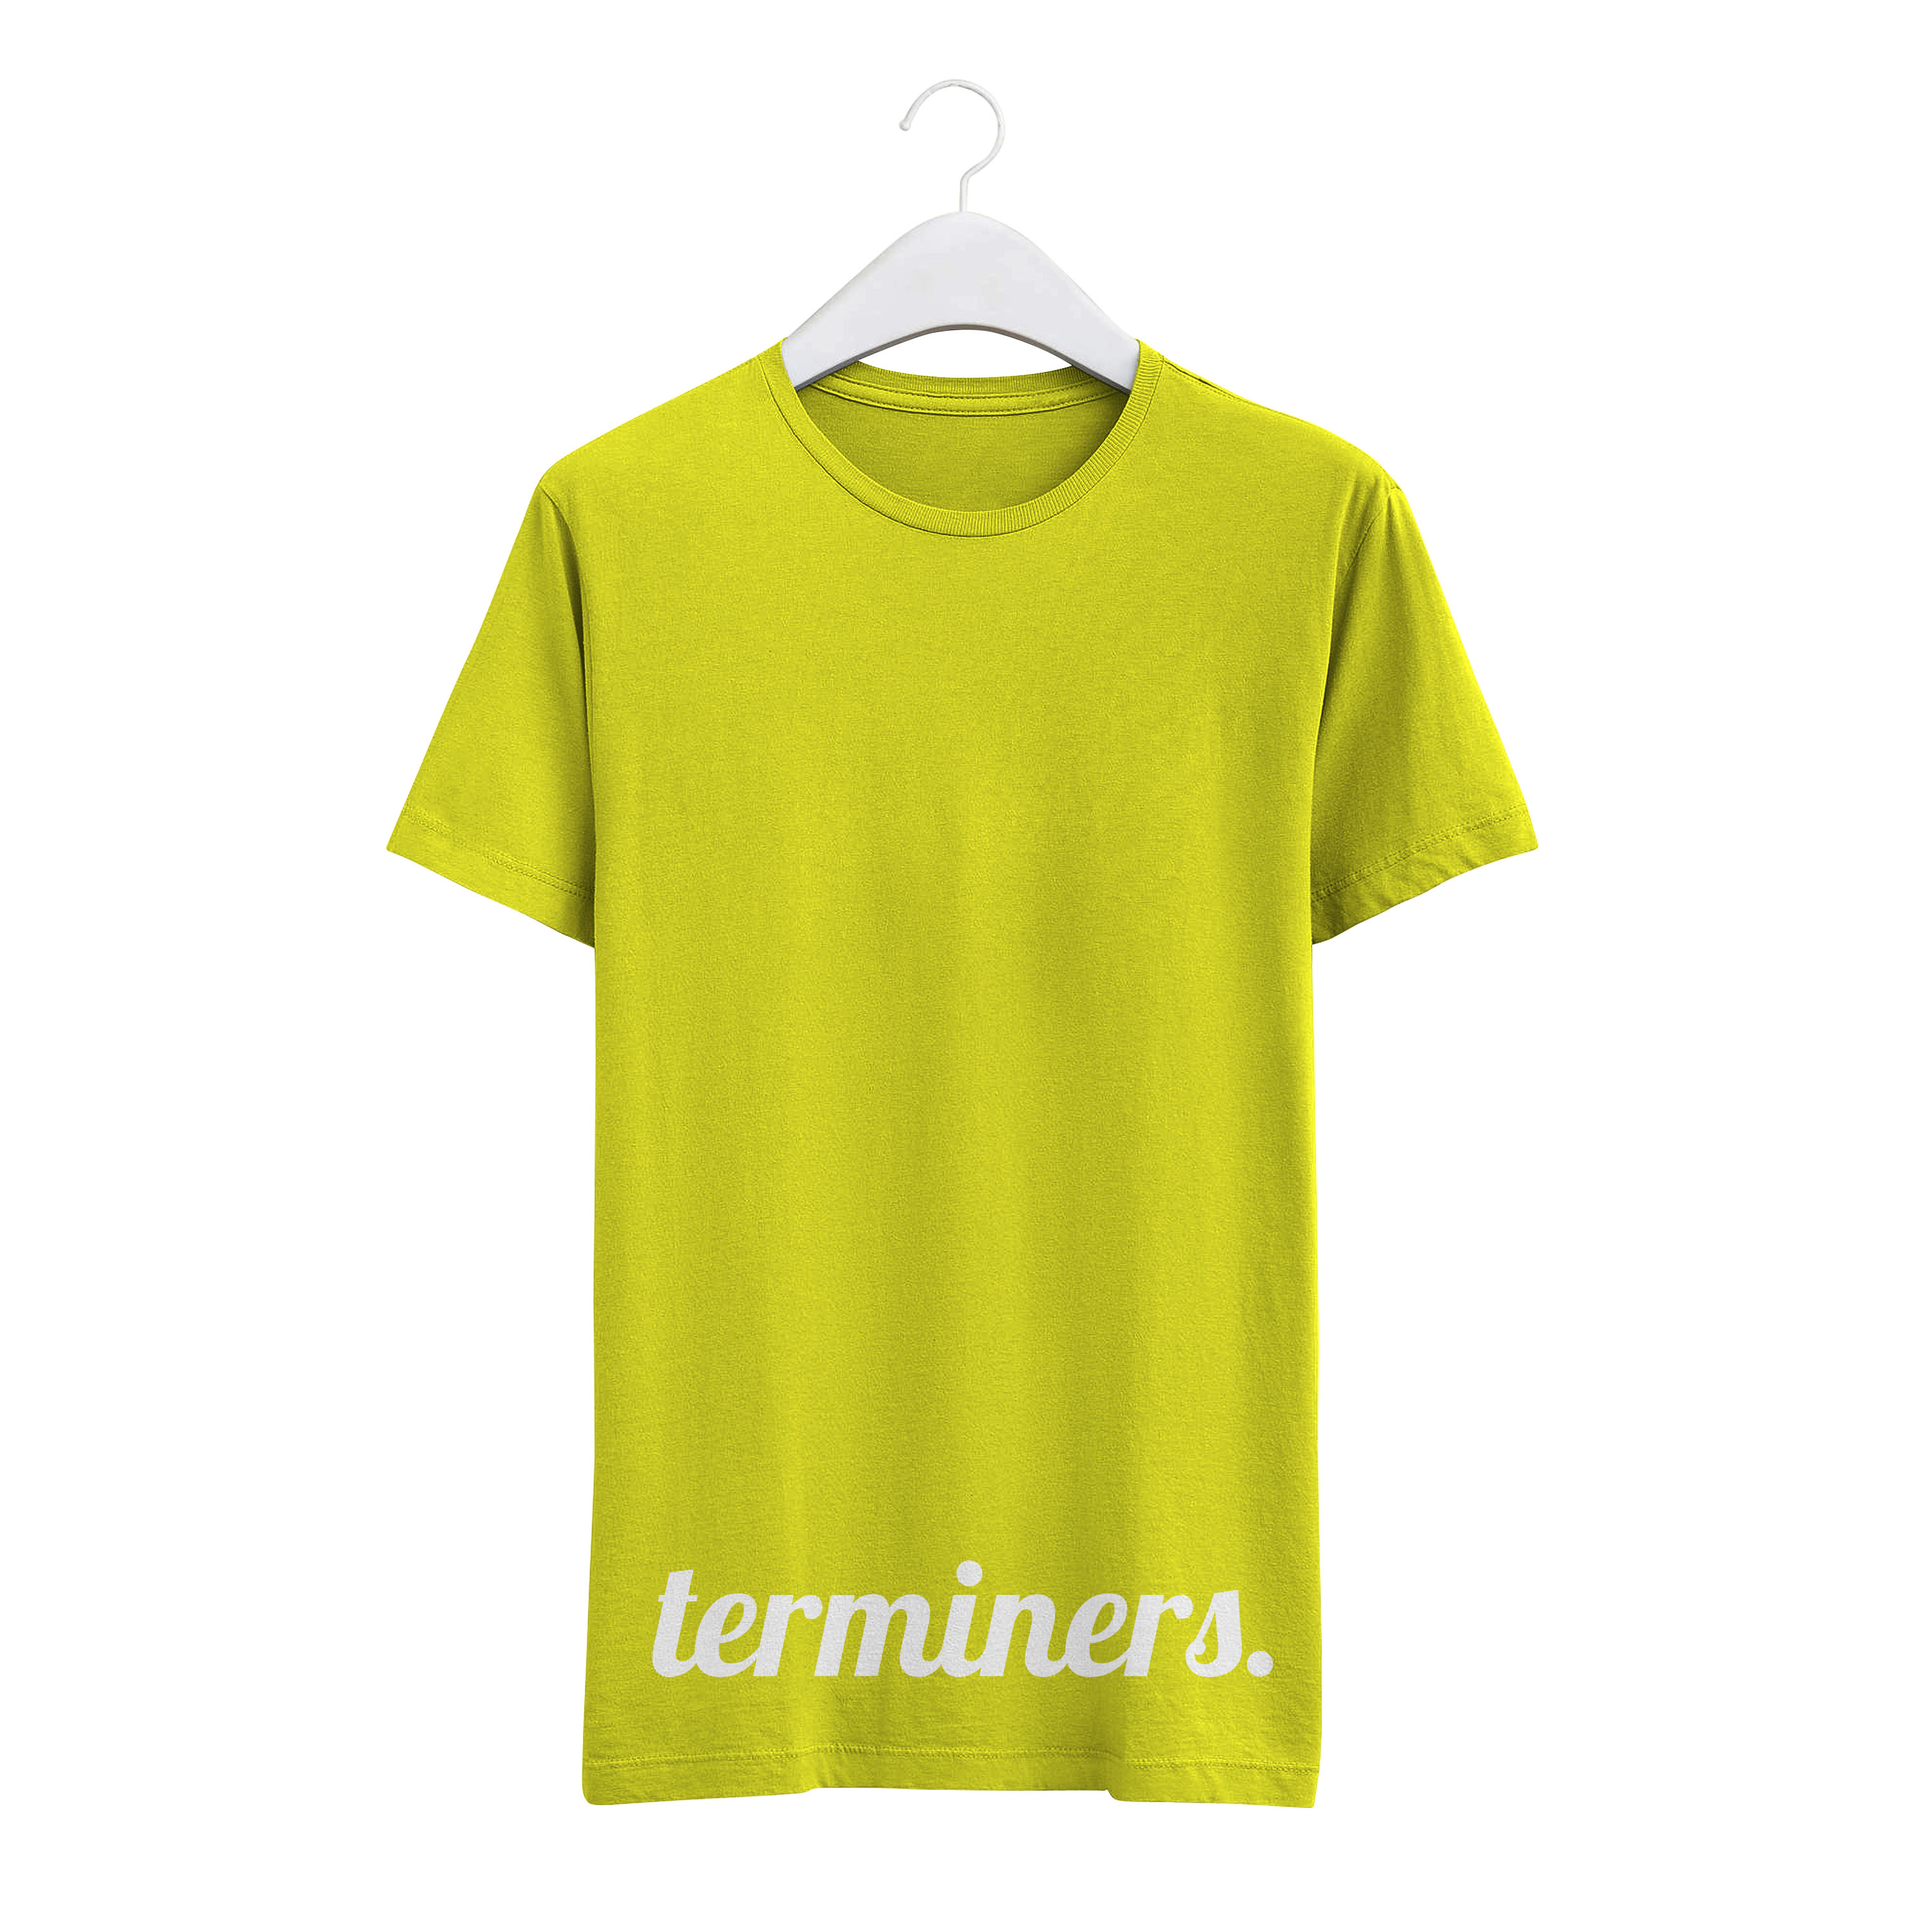
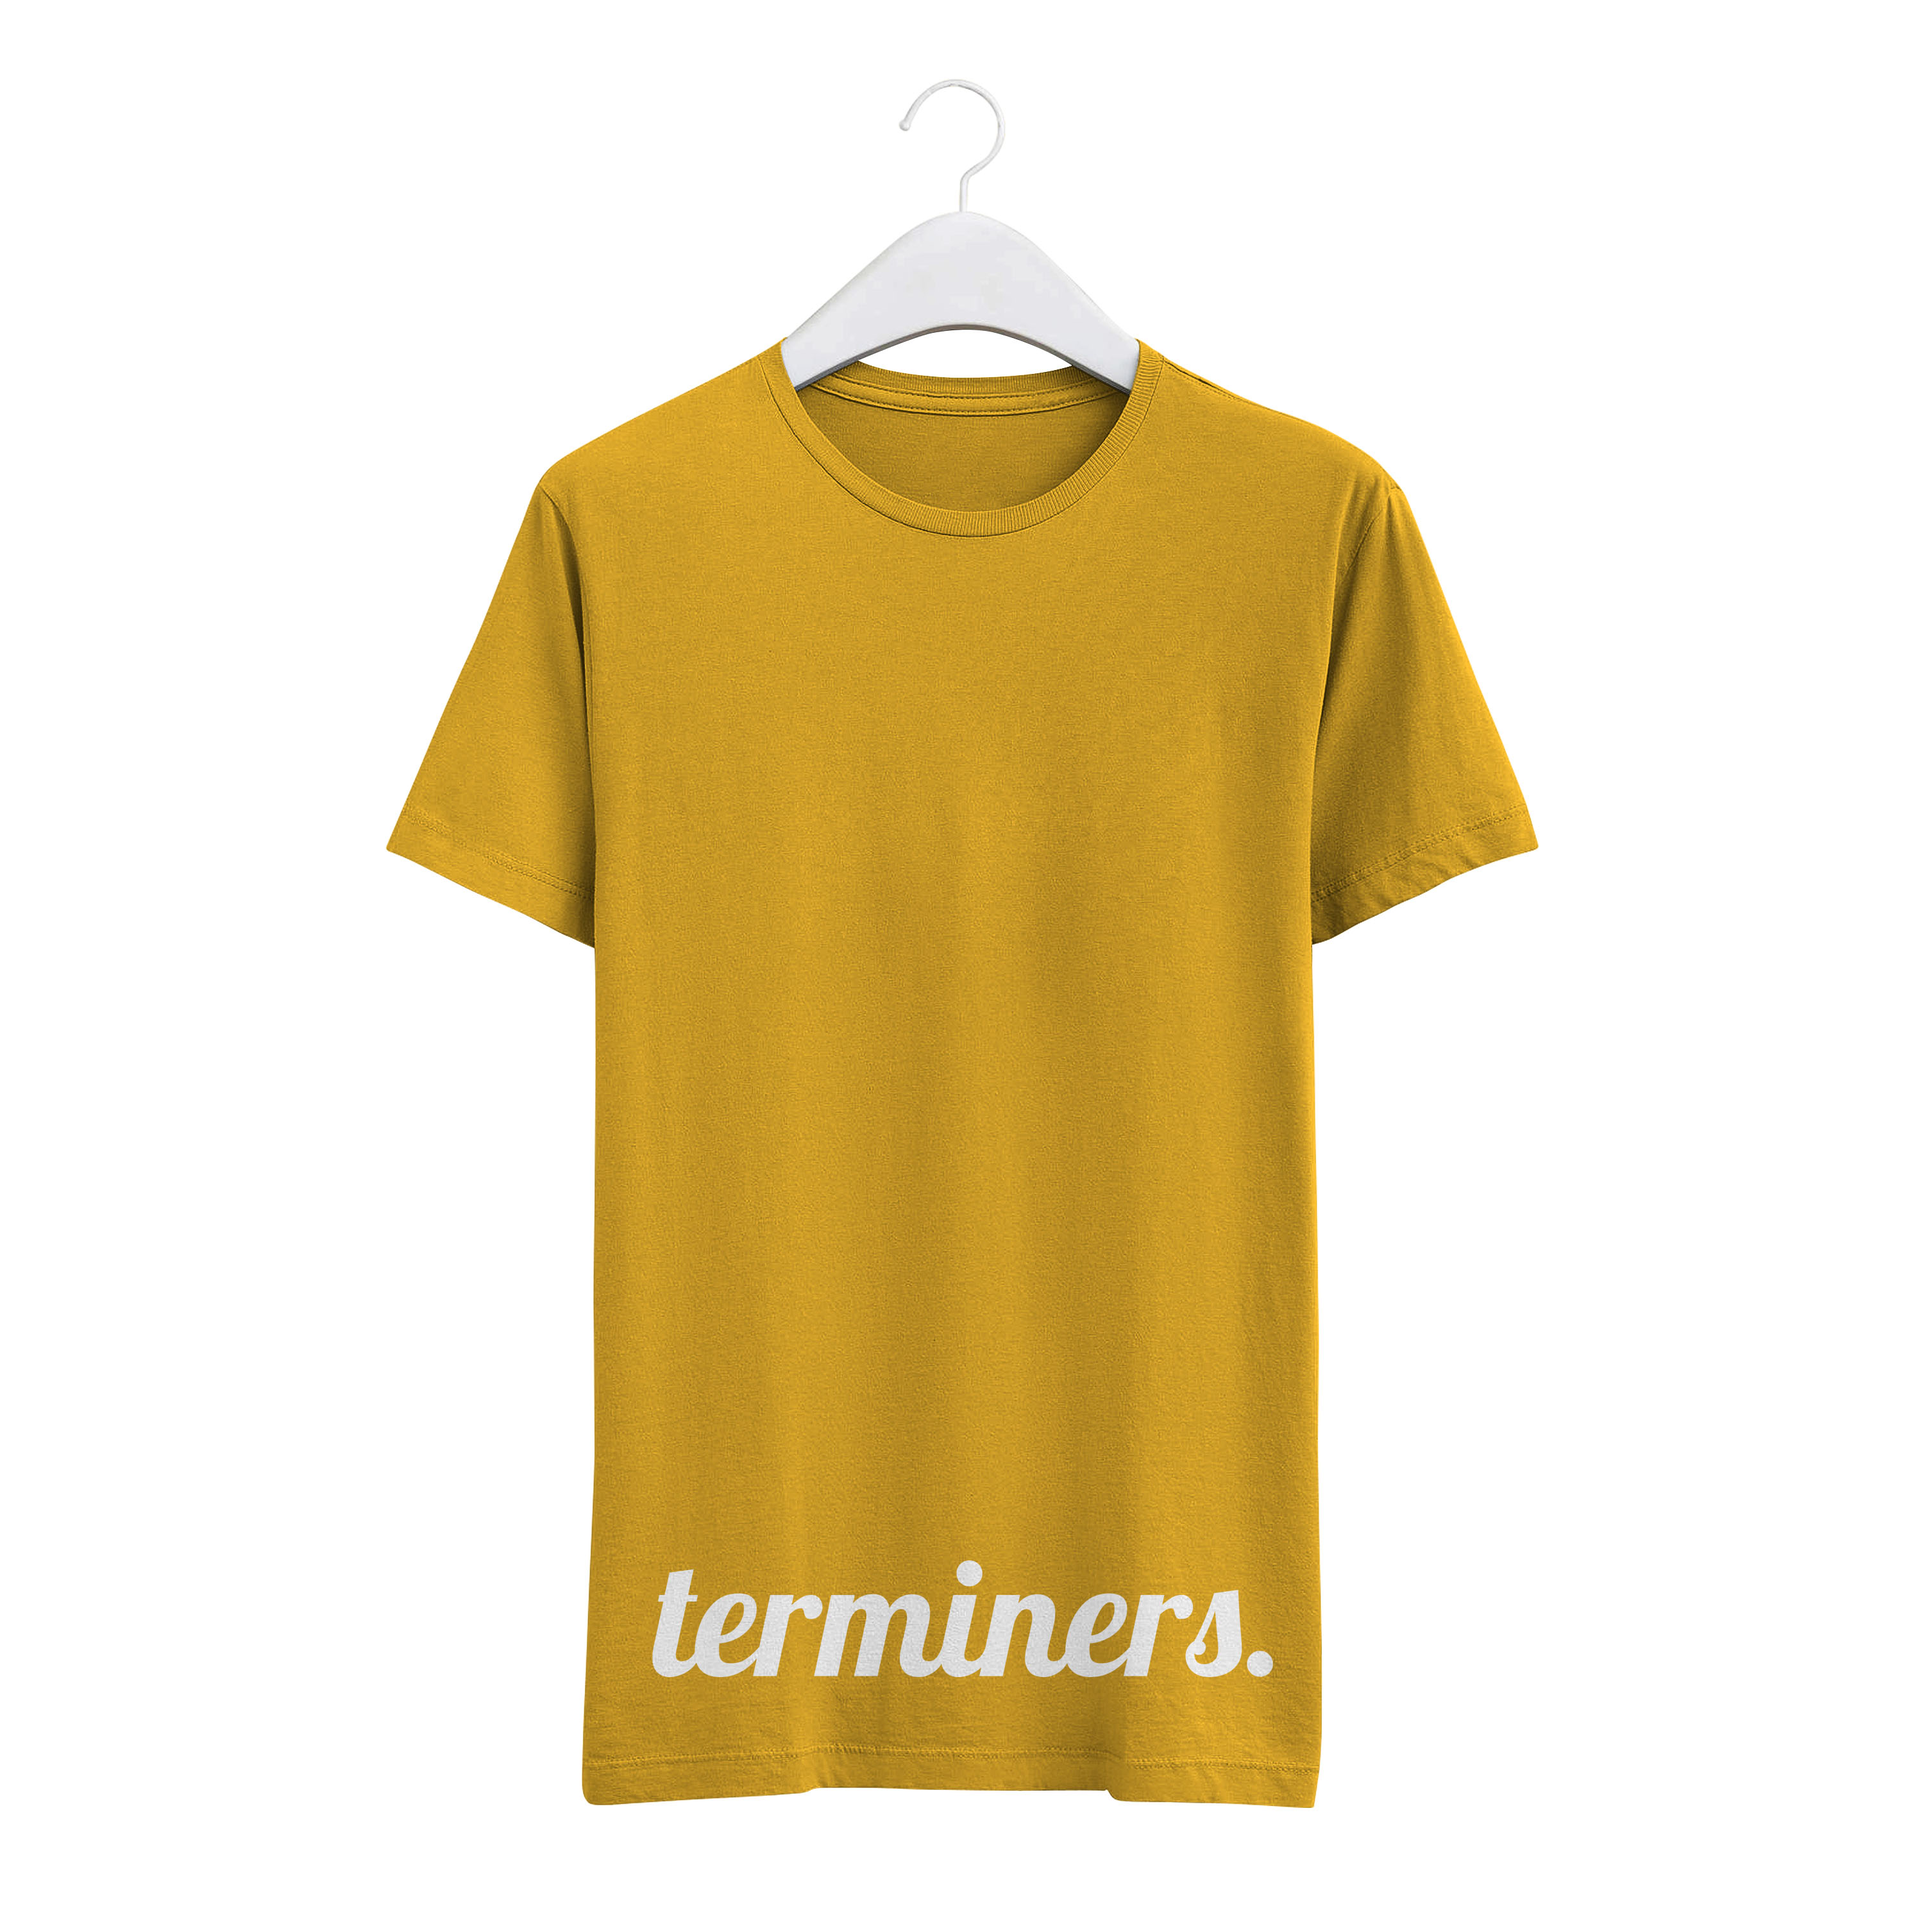
Midterm cont.
Made home page responsive and adjusted colors here and there to make the site a little more consistent.

diff --git a/midterm/index.html b/midterm/index.html
@@ -19,7 +19,7 @@
     </head>
 
 
-    <body class="index-body" style="background-image: url(assets/img/windmill.jpg);">
+    <body class="index-body">
 
         <!-- NAVIGATION -->
         <nav class="navbar navbar-expand-lg navbar-light bg-transparent fixed-top">
@@ -79,7 +79,7 @@
                     </div>
                     <div class="modal-footer bg-dark">
                     <button type="button" class="btn btn-outline-light" data-dismiss="modal">Close</button>
-                    <button class="btn btn-info disabled" id="email-submit-btn" type="submit">Subscribe</button>
+                    <button class="btn btn-warning disabled" id="email-submit-btn" type="submit">Subscribe</button>
                     </div>
                 </form>
             </div>
@@ -92,8 +92,10 @@
             <div class="row mt-5 pt-5">
                 <div class="col-md-6"></div>
                 <div class="col-12 col-md-6 text-center">
-                    <h1 class="text-light pt-5 lobster splash-heading">terminers.</h1>
-                    <h4 class="text-light">Dedicated to <b>terminate</b> coal mining and promote sustainable energy.<br><br>#NoToCoal</h4>
+                    <h1 class="text-light pt-5 lobster splash-heading d-none d-md-block">terminers.</h1>
+                    <h1 class="text-light pt-5 lobster mobile-splash-heading d-md-none drop-shadow">terminers.</h1>
+                    <h4 class="text-light d-none d-md-block">Dedicated to <b>terminate</b> coal mining and promote sustainable energy.<br><br>#NoToCoal</h4>
+                    <h5 class="text-light d-md-none drop-shadow">Dedicated to <b>terminate</b> coal mining and promote sustainable energy.<br><br>#NoToCoal</h5>
                 </div>
             </div>
         </div>

diff --git a/midterm/pages/about.html b/midterm/pages/about.html
@@ -79,7 +79,7 @@
                     </div>
                     <div class="modal-footer bg-dark">
                     <button type="button" class="btn btn-outline-light" data-dismiss="modal">Close</button>
-                    <button class="btn btn-info disabled" id="email-submit-btn" type="submit">Subscribe</button>
+                    <button class="btn btn-warning disabled" id="email-submit-btn" type="submit">Subscribe</button>
                     </div>
                 </form>
             </div>

diff --git a/midterm/pages/pdp.html b/midterm/pages/pdp.html
@@ -79,7 +79,7 @@
                     </div>
                     <div class="modal-footer bg-dark">
                     <button type="button" class="btn btn-outline-light" data-dismiss="modal">Close</button>
-                    <button class="btn btn-info disabled" id="email-submit-btn" type="submit">Subscribe</button>
+                    <button class="btn btn-warning disabled" id="email-submit-btn" type="submit">Subscribe</button>
                     </div>
                 </form>
             </div>

diff --git a/midterm/pages/products.html b/midterm/pages/products.html
@@ -79,7 +79,7 @@
                     </div>
                     <div class="modal-footer bg-dark">
                     <button type="button" class="btn btn-outline-light" data-dismiss="modal">Close</button>
-                    <button class="btn btn-info disabled" id="email-submit-btn" type="submit">Subscribe</button>
+                    <button class="btn btn-warning disabled" id="email-submit-btn" type="submit">Subscribe</button>
                     </div>
                 </form>
             </div>

diff --git a/midterm/pages/team.html b/midterm/pages/team.html
@@ -79,7 +79,7 @@
                     </div>
                     <div class="modal-footer bg-dark">
                     <button type="button" class="btn btn-outline-light" data-dismiss="modal">Close</button>
-                    <button class="btn btn-info disabled" id="email-submit-btn" type="submit">Subscribe</button>
+                    <button class="btn btn-warning disabled" id="email-submit-btn" type="submit">Subscribe</button>
                     </div>
                 </form>
             </div>

diff --git a/midterm/css/styles.css b/midterm/css/styles.css
@@ -16,6 +16,16 @@
     opacity: .9;
 }
 
+.index-body{
+    background-image: url(../assets/img/windmill-mobile.jpg);
+}
+
+@media (min-width: 768px){
+    .index-body{
+        background-image: url(../assets/img/windmill.jpg);
+    }
+}
+
 /* BOOTSTRAP ADJUSTMENTS */
 .bg-light{
     background-color: #ffffff !important;

diff --git a/midterm/css/typography.css b/midterm/css/typography.css
@@ -9,6 +9,14 @@
     font-size: 78pt;
 }
 
+.mobile-splash-heading{
+    font-size: 60pt;
+}
+
+.drop-shadow{
+    text-shadow: 1px 1px 3px black;
+}
+
 @media (min-width: 768px){
     .lgr-txt{
         font-size: 40pt;
